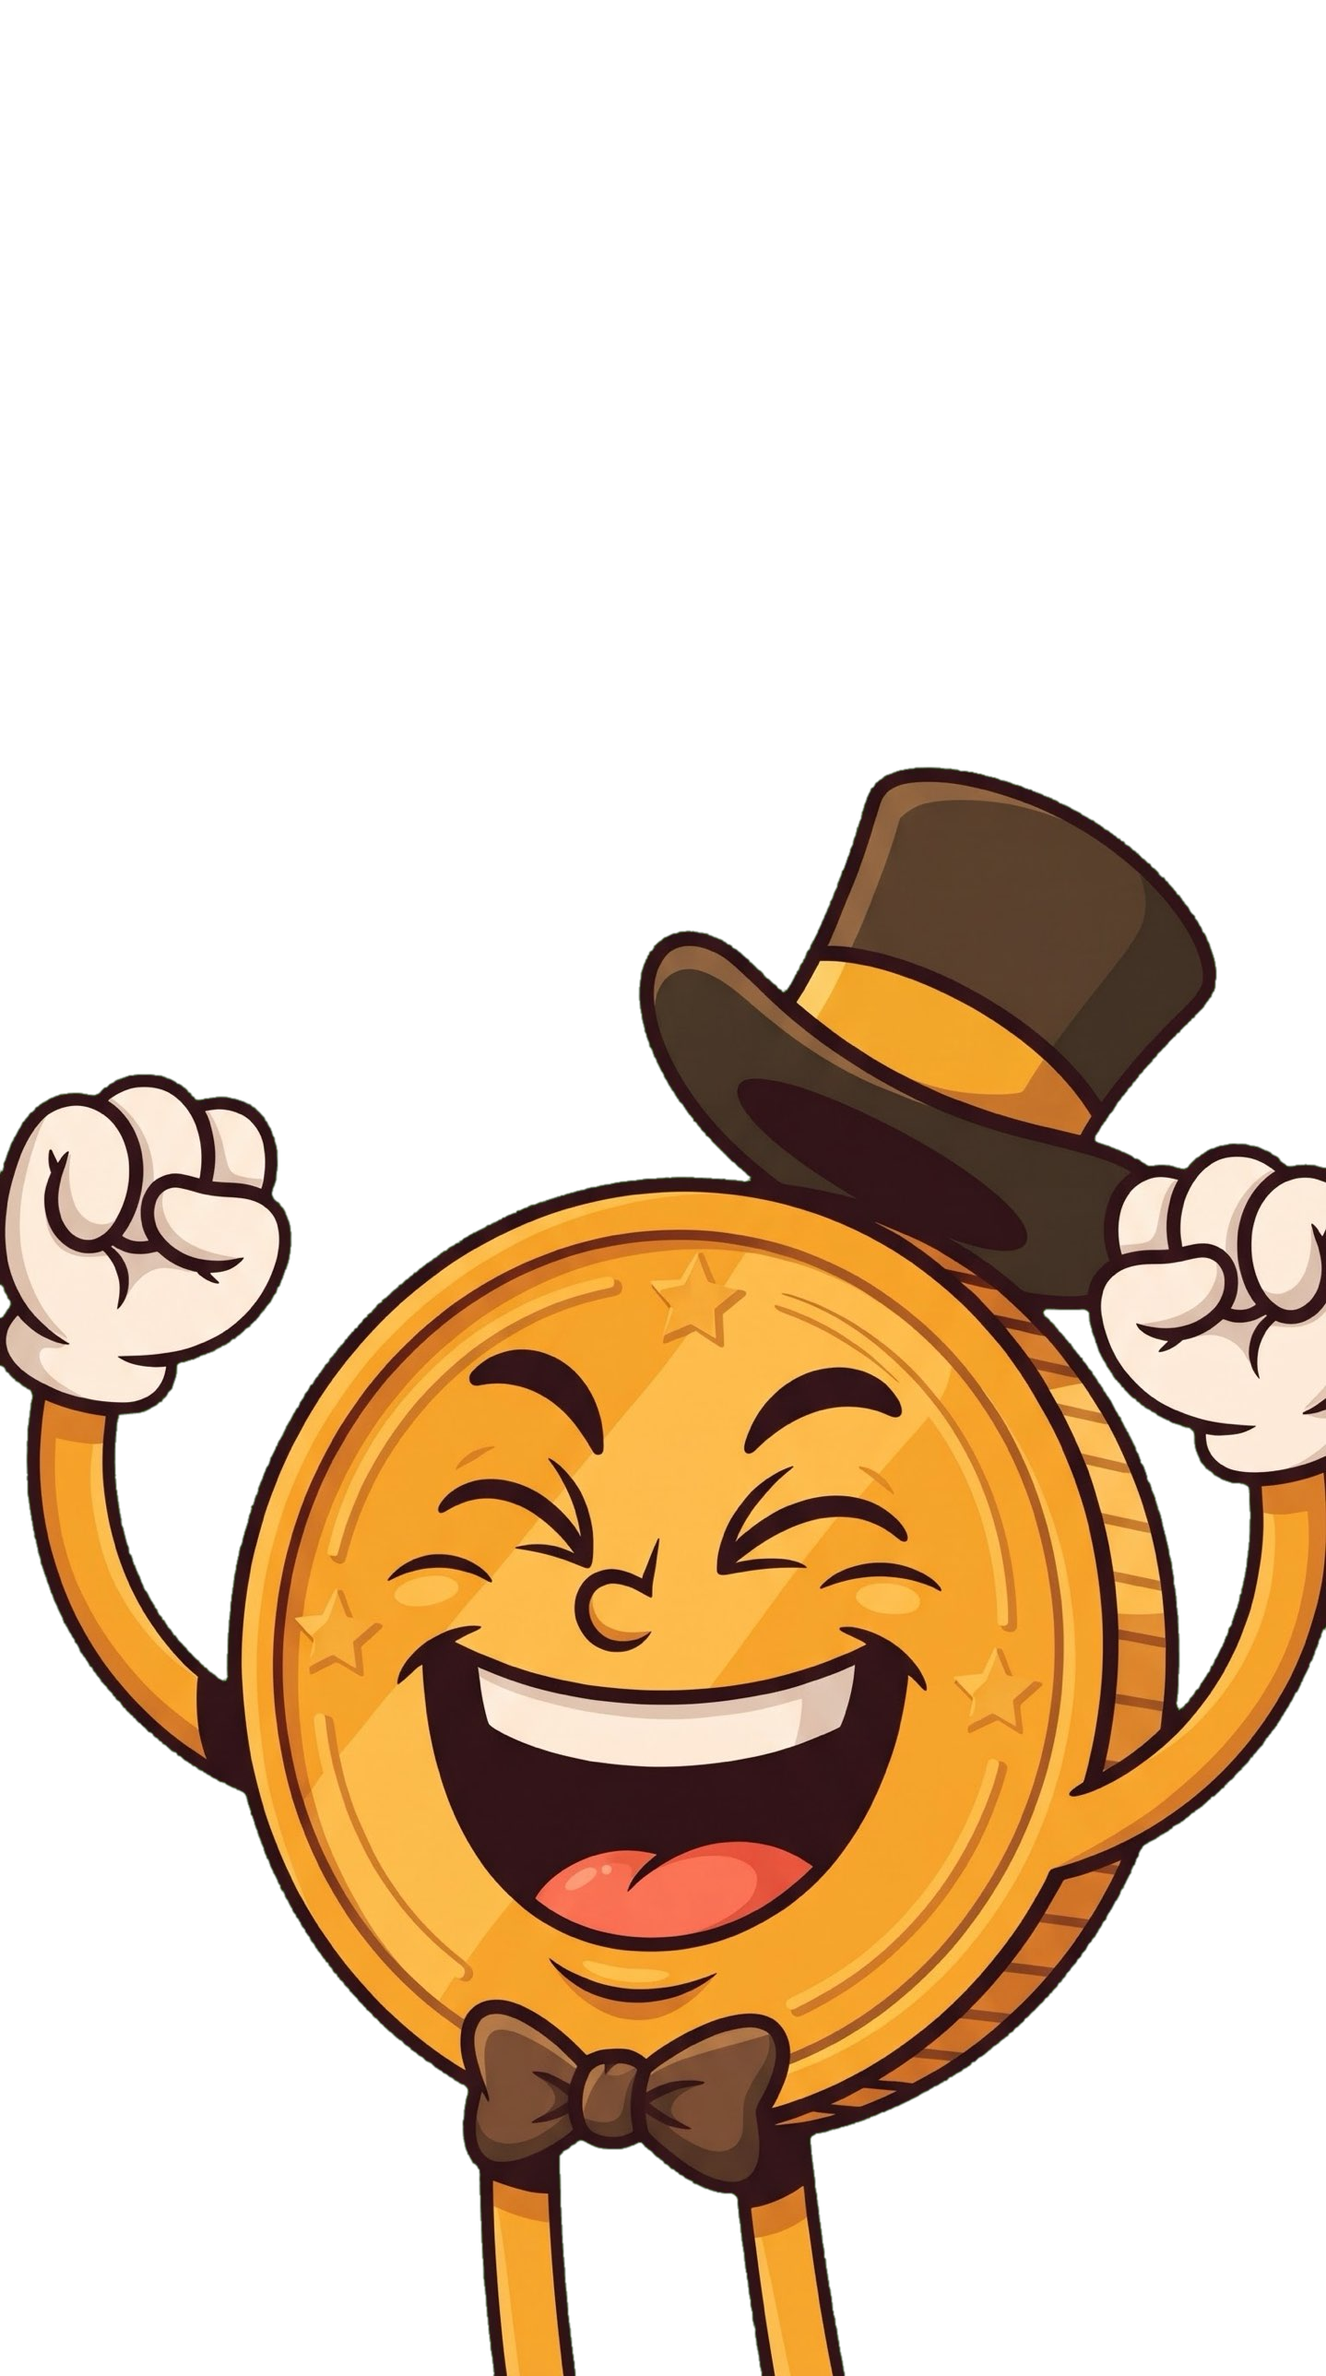
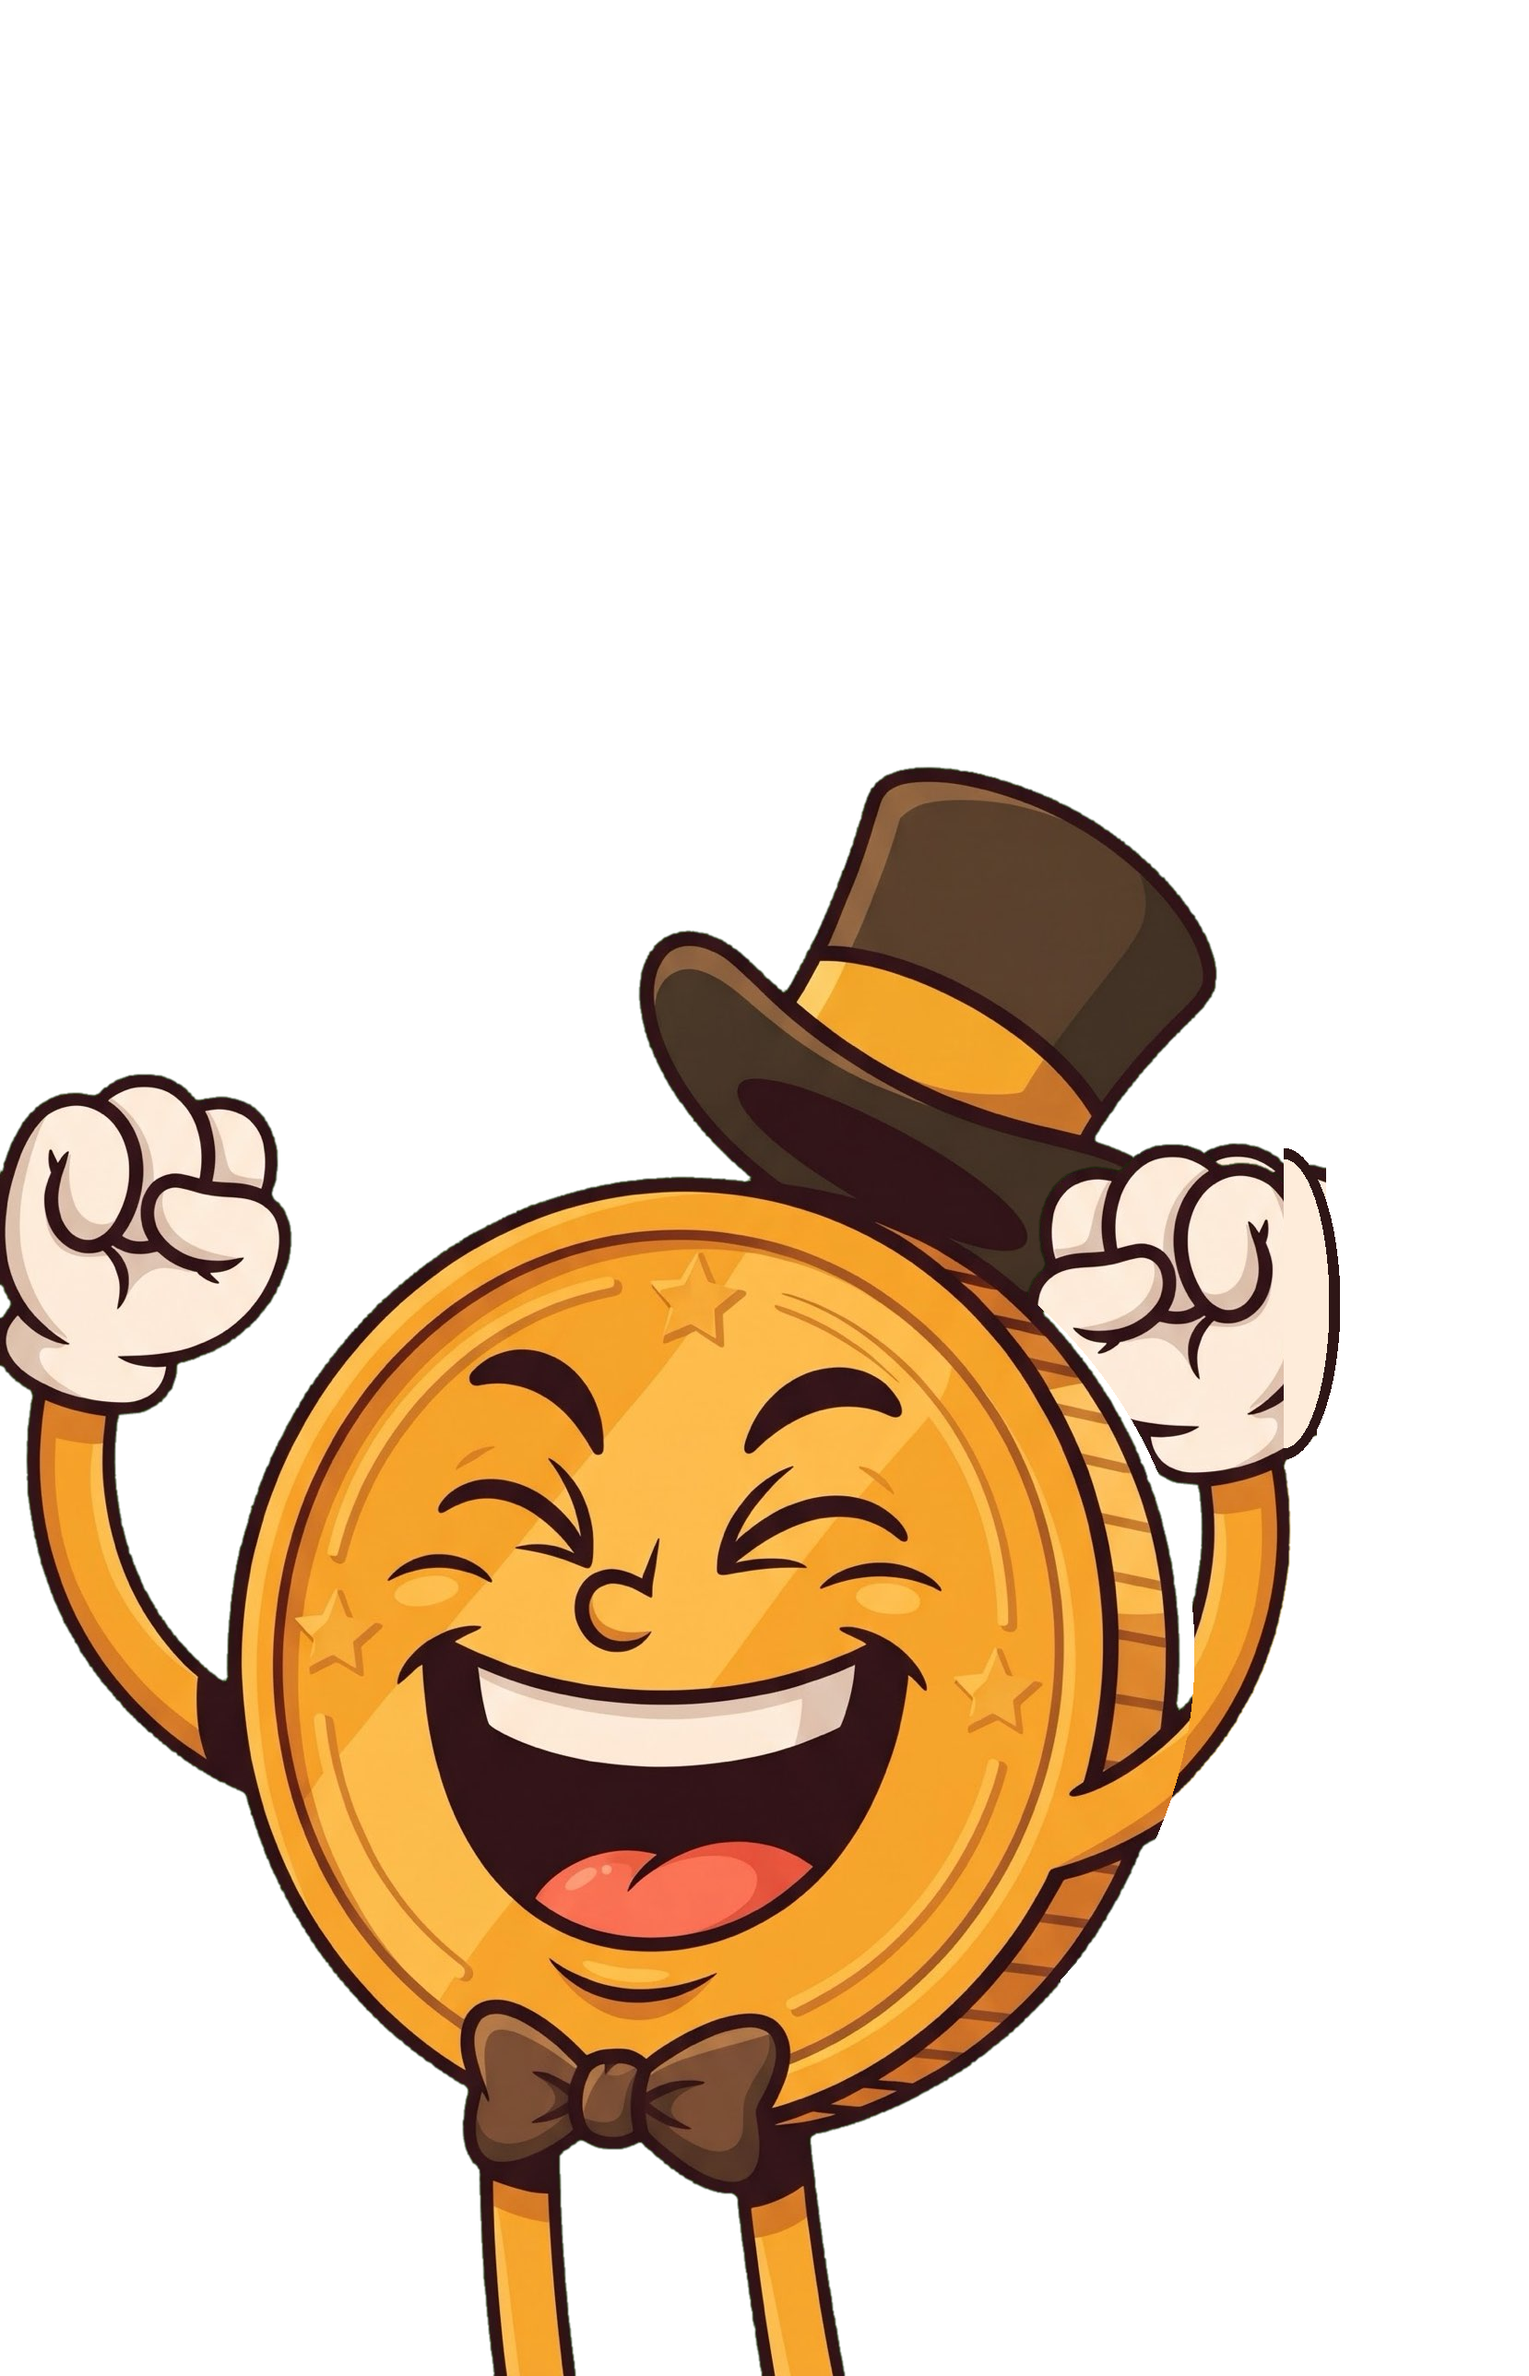
Couverture : poing droit de la pose victoire réparé (miroir du poing gauche, contour refermé)
Claude-Session: https://claude.ai/code/session_01WbC6ARmSW3USkrYLG1bBYg

diff --git a/mister_coin/gros_plans/reparer_victoire.py b/mister_coin/gros_plans/reparer_victoire.py
@@ -1,0 +1,41 @@
+"""Répare couv_victoire.png : le poing droit et son bras sont coupés par le bord de l'image source.
+On reconstruit le côté droit avec le poing et le bras gauches (complets) retournés en miroir, posés sur le droit, cachés derrière la pièce,
+sur une toile élargie de PAD px à droite."""
+from PIL import Image; import numpy as np, cv2, sys
+import os; SRC=os.path.join(os.path.dirname(os.path.abspath(__file__)), 'couv_victoire_origine.png')   # pose d'origine, coupée au bord
+g=np.asarray(Image.open(SRC)).astype(np.float32); H,W=g.shape[:2]; a=g[...,3]
+DX=int(sys.argv[1]) if len(sys.argv)>1 else 0; DY=int(sys.argv[2]) if len(sys.argv)>2 else 76
+PAD=220
+# poing + bras gauches : composante jusqu'à 1800, puis bras seul (colonnes 0-170) jusqu'en bas
+m=np.zeros((H,W),bool)
+sub=(a[1100:1800,:330]>20).astype(np.uint8); n,lab=cv2.connectedComponents(sub); m[1100:1800,:330]=lab==lab[200,40]
+sub=(a[1790:,:170]>20).astype(np.uint8); n,lab=cv2.connectedComponents(sub); k=lab[5,np.nonzero(sub[5])[0][0]]; m[1790:,:170]|=lab==k
+patch=g.copy(); patch[...,3]*=m
+patch=patch[:, ::-1]                                    # miroir : colonne x -> W-1-x
+out=np.zeros((H,W+PAD,4),np.float32); out[:,:W]=g
+# position : le poing miroir recouvre le poing droit (décalage DX, DY)
+M=np.float32([[1,0,DX],[0,1,DY]])
+P=cv2.warpAffine(patch,M,(W+PAD,H),flags=cv2.INTER_LINEAR)
+# caché derrière la pièce (ellipse) et derrière le chapeau (on garde l'original là où il est opaque et brun foncé ? non : poing devant le chapeau dans l'original)
+yy,xx=np.mgrid[0:H,0:W+PAD]; coin=((xx-775)/520.)**2+((yy-1792)/510.)**2<1
+pa=P[...,3]/255*(~coin)
+# effacer l'ancien poing/bras droit coupé hors pièce et hors chapeau : pixels de l'original à droite de 1150, lignes 1230-2300, non bruns (chapeau)
+o=out[...,:3]; br=(o[...,0]<120)&(o[...,1]<90)&(o[...,2]<80)&(o[...,0]>40)   # brun du chapeau
+old=np.zeros((H,W+PAD),bool); old[1230:2300,1150:W]=True; old&=~coin
+hat=np.zeros((H,W+PAD),bool); hat[:1330,:]=True                              # le chapeau est au-dessus de 1330
+old&=~hat
+out[...,3]=np.where(old,0,out[...,3])
+al=pa[...,None]; out[...,:3]=out[...,:3]*(1-al)+P[...,:3]*al; out[...,3]=np.maximum(out[...,3],P[...,3]*(~coin))
+# le poing gauche touchait le bord gauche (contour extérieur coupé net) : on referme le côté coupé par une demi-ellipse
+# remplie de blanc de gant et cerclée du même contour brun foncé
+edge=W-1+DX
+col_=out[1150+DY:1560+DY, edge-4, 3]>20; rr=np.nonzero(col_)[0]+1150+DY; ra, rb=rr.min(), rr.max()
+cy=(ra+rb)/2+2; hy=(rb-ra)/2+8; bul=50; th=12; X0=edge-36
+yy2,xx2=np.mgrid[0:H,0:W+PAD].astype(np.float32)
+inside=(((xx2-X0)/bul)**2+((yy2-cy)/hy)**2<1)&(xx2>X0)
+ring=(((xx2-X0)/(bul+th))**2+((yy2-cy)/(hy+th))**2<1)&(xx2>X0)&~inside
+zone=out[ra:rb, X0-60:X0, :3].reshape(-1,3); lum=zone.sum(1); GLOVE=np.median(zone[lum>np.percentile(lum,70)],0); OUT=np.array([46,22,22],np.float32)
+out[inside,:3]=GLOVE; out[inside,3]=255
+out[ring,:3]=OUT; out[ring,3]=255
+
+Image.fromarray(np.clip(out,0,255).astype(np.uint8)).save(os.path.join(os.path.dirname(SRC), 'couv_victoire.png'))

diff --git a/docs/retours.md b/docs/retours.md
@@ -40,6 +40,7 @@ Ce fichier garde l'essentiel de ce que Nicolas a validé, refusé ou corrigé, p
 - Ne pas réutiliser une scène trop récente dans l'esprit des spectateurs (haricots refusés le 15/11) : machine à sous inversée et pommier dans un verger choisis à la place.
 
 ## Couvertures
+- Main coupée sur la couverture (28/11, pose `victoire`) : le poing droit et son bras sortaient de l'image source. Réparés par miroir du poing gauche (`mister_coin/gros_plans/reparer_victoire.py`). Poses encore coupées sur un bord, à vérifier avant usage : cache_yeux, chut, etoiles, haussement, panique, triste. Toujours regarder les mains en taille réelle avant d'envoyer une couverture.
 - Style maison (`lib/cards_lib.py`) : fond du décor principal, titre court, question « Et toi… ? », Mister Coin expressif. Une couverture surchargée ou d'un autre style a été jugée « affreuse » (loto) : rester simple.
 - Retirer les éléments décoratifs du haut et les accessoires qui détournent l'attention (cochon) ; Mister Coin avec les étoiles dans les yeux en bas a été apprécié.
 
